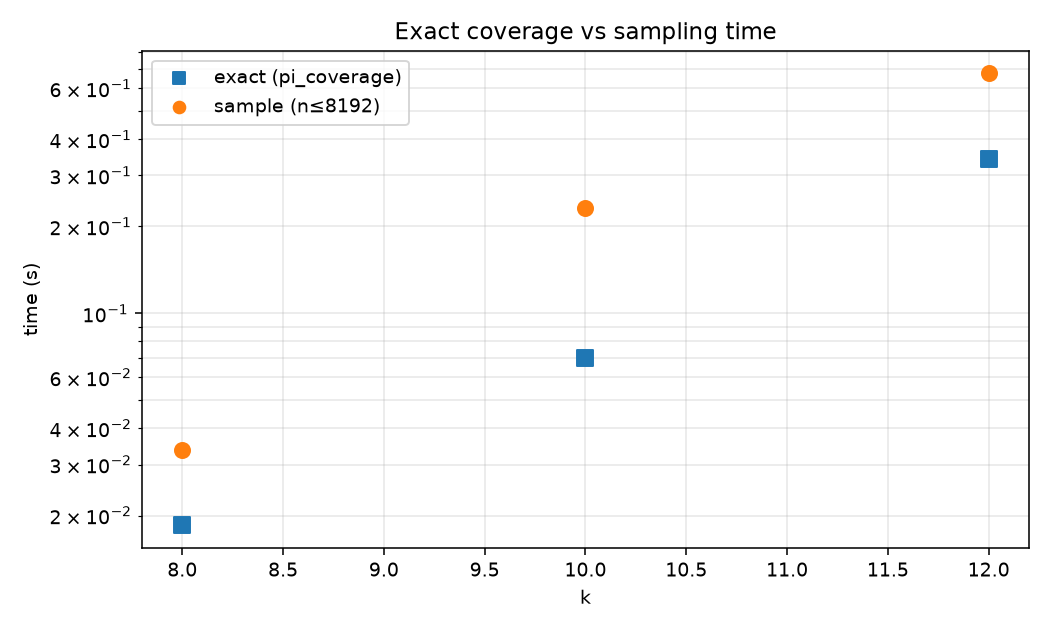
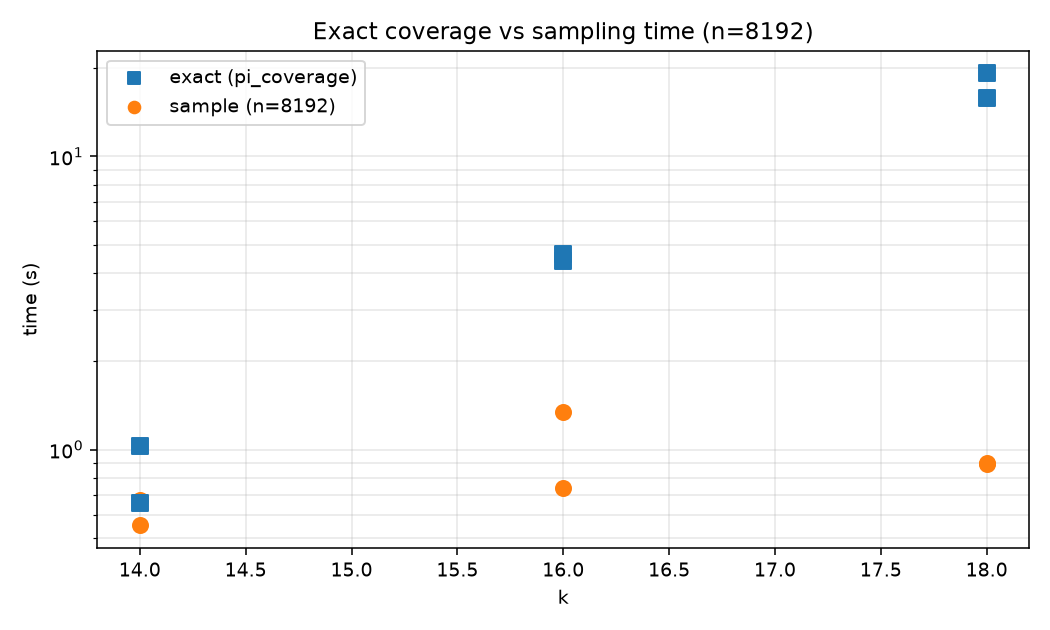
Better probe for sampling method

diff --git a/dev/high_k/notebooks/bbm_high_k_redundancy_sampling.py b/dev/high_k/notebooks/bbm_high_k_redundancy_sampling.py
@@ -5,9 +5,12 @@
 # ``input_redundancy`` / ``edge_redundancy`` by sampling minterms and matching
 # covering PIs — **without** building the Θ(``2**k``) ``pi_coverage`` dict.
 #
-# - **Enumerable *k*** (``k ≤ MAX_K_EXACT``): compare sample estimates to exact
-#   ``BooleanNode`` measures (speed + accuracy); optionally overlay bootstrap CIs.
-# - **High *k*** (``k > 20``): exact is impossible; report bootstrap CIs.
+# - **Enumerable *k*** (``MIN_K_EXACT ≤ k ≤ MAX_K_EXACT``): compare sample
+#   estimates (``n ≥ 2**10``) to exact ``BooleanNode`` measures. Exact vs
+#   sampling only makes sense for ``k > 10`` so a ``2**10`` sample is a proper
+#   subsample of ``2**k``.
+# - **High *k*** (``k > MAX_K_EXACT``): exact coverage is impractical; report
+#   bootstrap CIs.
 #
 # Output is teed to ``high_k/logs/bbm_high_k_redundancy_sampling/``.
 
@@ -63,8 +66,12 @@ from cana.primes.cascade import on_off_primes_from_expression  # noqa: E402
 MODE = "starter"
 
 TIMEOUT_S = 10.0
-MAX_K_EXACT = 12  # exact BooleanNode gold only when k <= this
+MIN_K_EXACT = 11  # k > 10 so n=2**10 is a proper subsample
+MAX_K_EXACT = 18  # try exact pi_coverage up to here (≤ MAX_DENSE_LUT_K)
+MIN_N_SAMPLES = 2**10
 N_SAMPLES_GRID: Tuple[int, ...] = (2**10, 2**11, 2**12, 2**13)
+# Single n for exact-vs-sample timing (most accurate grid size).
+N_TIME_COMPARE = max(N_SAMPLES_GRID)
 N_BOOT = 1000
 CI = 0.95
 SEED = 0
@@ -75,15 +82,19 @@ COMPARE_LOG = (
 )
 FIG_DIR = run_log_dir(NOTEBOOK_NAME)
 
-# Enumerable-k accuracy cohort (BBM rules with known-good primes).
+# Enumerable-k accuracy cohort (k > 10; BBM rules with known-good primes).
 # (model_id, target, expected_k, cohort)
 STARTER_EXACT: Tuple[Tuple[str, str, int, str], ...] = (
-    ("001", "v_IFNAgene", 8, "rof"),
-    ("002", "v_Akt", 8, "rest"),
-    ("001", "v_MAP3K7IP1_MAP3K7IP2_MAP3K7", 10, "rest"),
-    ("002", "v_Sek1", 10, "rest"),
+    ("002", "v_MKK3", 11, "rest"),
+    ("002", "v_Src", 11, "rest"),
     ("009", "v_ROS_CYT", 12, "rest"),
     ("018", "v_erbb13", 12, "unate"),
+    ("004", "v_Nck", 14, "rof"),
+    ("004", "v_Spry2", 14, "unate"),
+    ("004", "v_p120_catenin", 16, "rof"),
+    ("004", "v_B_catenin", 16, "rest"),
+    ("004", "v_DGK", 18, "rof"),
+    ("004", "v_PI3K", 18, "unate"),
 )
 
 # High-k bootstrap cohort (from bbm_high_k_primes_compare / measures_probe).
@@ -97,8 +108,10 @@ STARTER_HIGH: Tuple[Tuple[str, str, int, str], ...] = (
 
 log, LOG_PATH = start_run_log(NOTEBOOK_NAME)
 log.info(
-    f"MODE={MODE}  TIMEOUT_S={TIMEOUT_S}  MAX_K_EXACT={MAX_K_EXACT}  "
-    f"N_SAMPLES_GRID={N_SAMPLES_GRID}  N_BOOT={N_BOOT}  CI={CI}  SEED={SEED}"
+    f"MODE={MODE}  TIMEOUT_S={TIMEOUT_S}  "
+    f"MIN_K_EXACT={MIN_K_EXACT}  MAX_K_EXACT={MAX_K_EXACT}  "
+    f"MIN_N_SAMPLES={MIN_N_SAMPLES}  N_SAMPLES_GRID={N_SAMPLES_GRID}  "
+    f"N_TIME_COMPARE={N_TIME_COMPARE}  N_BOOT={N_BOOT}  CI={CI}  SEED={SEED}"
 )
 log.info(f"BBM_MODELS={BBM_MODELS}")
 log.info(f"COMPARE_LOG={COMPARE_LOG}")
@@ -310,7 +323,7 @@ accuracy_rows: List[Dict[str, Any]] = []
 log.info("")
 log.info(
     f"=== accuracy (exact vs sample)  n_funcs={len(exact_funcs)}  "
-    f"MAX_K_EXACT={MAX_K_EXACT} ==="
+    f"k in [{MIN_K_EXACT},{MAX_K_EXACT}]  n >= {MIN_N_SAMPLES} ==="
 )
 
 for i, fn in enumerate(exact_funcs, start=1):
@@ -332,6 +345,9 @@ for i, fn in enumerate(exact_funcs, start=1):
         log.info(
             f"#{i:4d} WARN k mismatch expect={expect_k} got={k}  {label}"
         )
+    if k < MIN_K_EXACT:
+        log.info(f"#{i:4d} skip (k={k} < MIN_K_EXACT={MIN_K_EXACT}) {label}")
+        continue
     if k > MAX_K_EXACT:
         log.info(f"#{i:4d} skip (k={k} > MAX_K_EXACT) {label}")
         continue
@@ -353,8 +369,15 @@ for i, fn in enumerate(exact_funcs, start=1):
     node.outputs.one_symbol_is_prime_implicant = True
 
     t0 = time.perf_counter()
-    exact_kr = float(node.input_redundancy(norm=True))
-    exact_ri = [float(x) for x in node.edge_redundancy(bound="mean")]
+    try:
+        exact_kr = float(node.input_redundancy(norm=True))
+        exact_ri = [float(x) for x in node.edge_redundancy(bound="mean")]
+    except Exception as exc:  # noqa: BLE001 — coverage may OOM/refuse
+        log.info(
+            f"#{i:4d} {cohort:7s} k={k:3d}  {label}  exact_FAIL  "
+            f"{type(exc).__name__}: {exc}"
+        )
+        continue
     t_exact = time.perf_counter() - t0
 
     log.info(
@@ -364,15 +387,14 @@ for i, fn in enumerate(exact_funcs, start=1):
     )
 
     space = 1 << k
-    # Relative fractions of the space plus any grid sizes still < 2**k.
+    # Only n >= MIN_N_SAMPLES; include full space as the exact-sample check.
     n_list = sorted(
-        {
-            1 << e
-            for e in range(max(0, k - 4), k + 1)
-        }
-        | {int(n) for n in N_SAMPLES_GRID if int(n) < space}
-        | {space}
+        {int(n) for n in N_SAMPLES_GRID if MIN_N_SAMPLES <= int(n) < space}
+        | ({space} if space >= MIN_N_SAMPLES else set())
     )
+    if not n_list:
+        log.info(f"       no n_samples >= {MIN_N_SAMPLES} for k={k}; skip")
+        continue
 
     for n_eff in n_list:
         rng = np.random.default_rng(SEED + n_eff + k)
@@ -572,33 +594,47 @@ if accuracy_rows:
     plt.close(fig)
     log.info(f"wrote {path}")
 
-    # time: exact vs sample
-    fig, ax = plt.subplots(figsize=(7.5, 4.5))
-    ks = sorted({r["k"] for r in accuracy_rows})
-    # one point per k: mean exact time, mean sample time at max n used
-    for k in ks:
-        rows_k = [r for r in accuracy_rows if r["k"] == k]
-        t_ex = float(np.mean([r["t_exact"] for r in rows_k]))
-        # largest n for this k
-        n_max = max(r["n_samples"] for r in rows_k)
-        t_sm = float(
-            np.mean([r["t_sample"] for r in rows_k if r["n_samples"] == n_max])
+    # time: exact vs sample at one fixed n (most accurate grid size)
+    time_rows = [
+        r for r in accuracy_rows if r["n_samples"] == N_TIME_COMPARE
+    ]
+    if time_rows:
+        fig, ax = plt.subplots(figsize=(7.5, 4.5))
+        # one point per function at N_TIME_COMPARE
+        for r in sorted(time_rows, key=lambda x: (x["k"], x["label"])):
+            ax.scatter(
+                [r["k"]], [r["t_exact"]], marker="s", color="C0", s=60, zorder=3
+            )
+            ax.scatter(
+                [r["k"]], [r["t_sample"]], marker="o", color="C1", s=60, zorder=3
+            )
+        ax.scatter([], [], marker="s", color="C0", label="exact (pi_coverage)")
+        ax.scatter(
+            [],
+            [],
+            marker="o",
+            color="C1",
+            label=f"sample (n={N_TIME_COMPARE})",
         )
-        ax.scatter([k], [t_ex], marker="s", color="C0", s=60, zorder=3)
-        ax.scatter([k], [t_sm], marker="o", color="C1", s=60, zorder=3)
-    ax.scatter([], [], marker="s", color="C0", label="exact (pi_coverage)")
-    ax.scatter([], [], marker="o", color="C1", label=f"sample (n≤{max(N_SAMPLES_GRID)})")
-    ax.set_xlabel("k")
-    ax.set_ylabel("time (s)")
-    ax.set_yscale("log")
-    ax.set_title("Exact coverage vs sampling time")
-    ax.legend()
-    ax.grid(True, which="both", alpha=0.3)
-    fig.tight_layout()
-    path = FIG_DIR / "time_exact_vs_sample.png"
-    fig.savefig(path, dpi=140)
-    plt.close(fig)
-    log.info(f"wrote {path}")
+        ax.set_xlabel("k")
+        ax.set_ylabel("time (s)")
+        ax.set_yscale("log")
+        ax.set_title(
+            f"Exact coverage vs sampling time (n={N_TIME_COMPARE})"
+        )
+        ax.legend()
+        ax.grid(True, which="both", alpha=0.3)
+        fig.tight_layout()
+        path = FIG_DIR / "time_exact_vs_sample.png"
+        fig.savefig(path, dpi=140)
+        plt.close(fig)
+        log.info(f"wrote {path}")
+    else:
+        log.info(
+            f"skip time_exact_vs_sample.png: no rows with "
+            f"n_samples==N_TIME_COMPARE={N_TIME_COMPARE} "
+            f"(need k > {int(np.log2(N_TIME_COMPARE))})"
+        )
 
 # --- high-k CI width vs n ---
 if high_rows:
